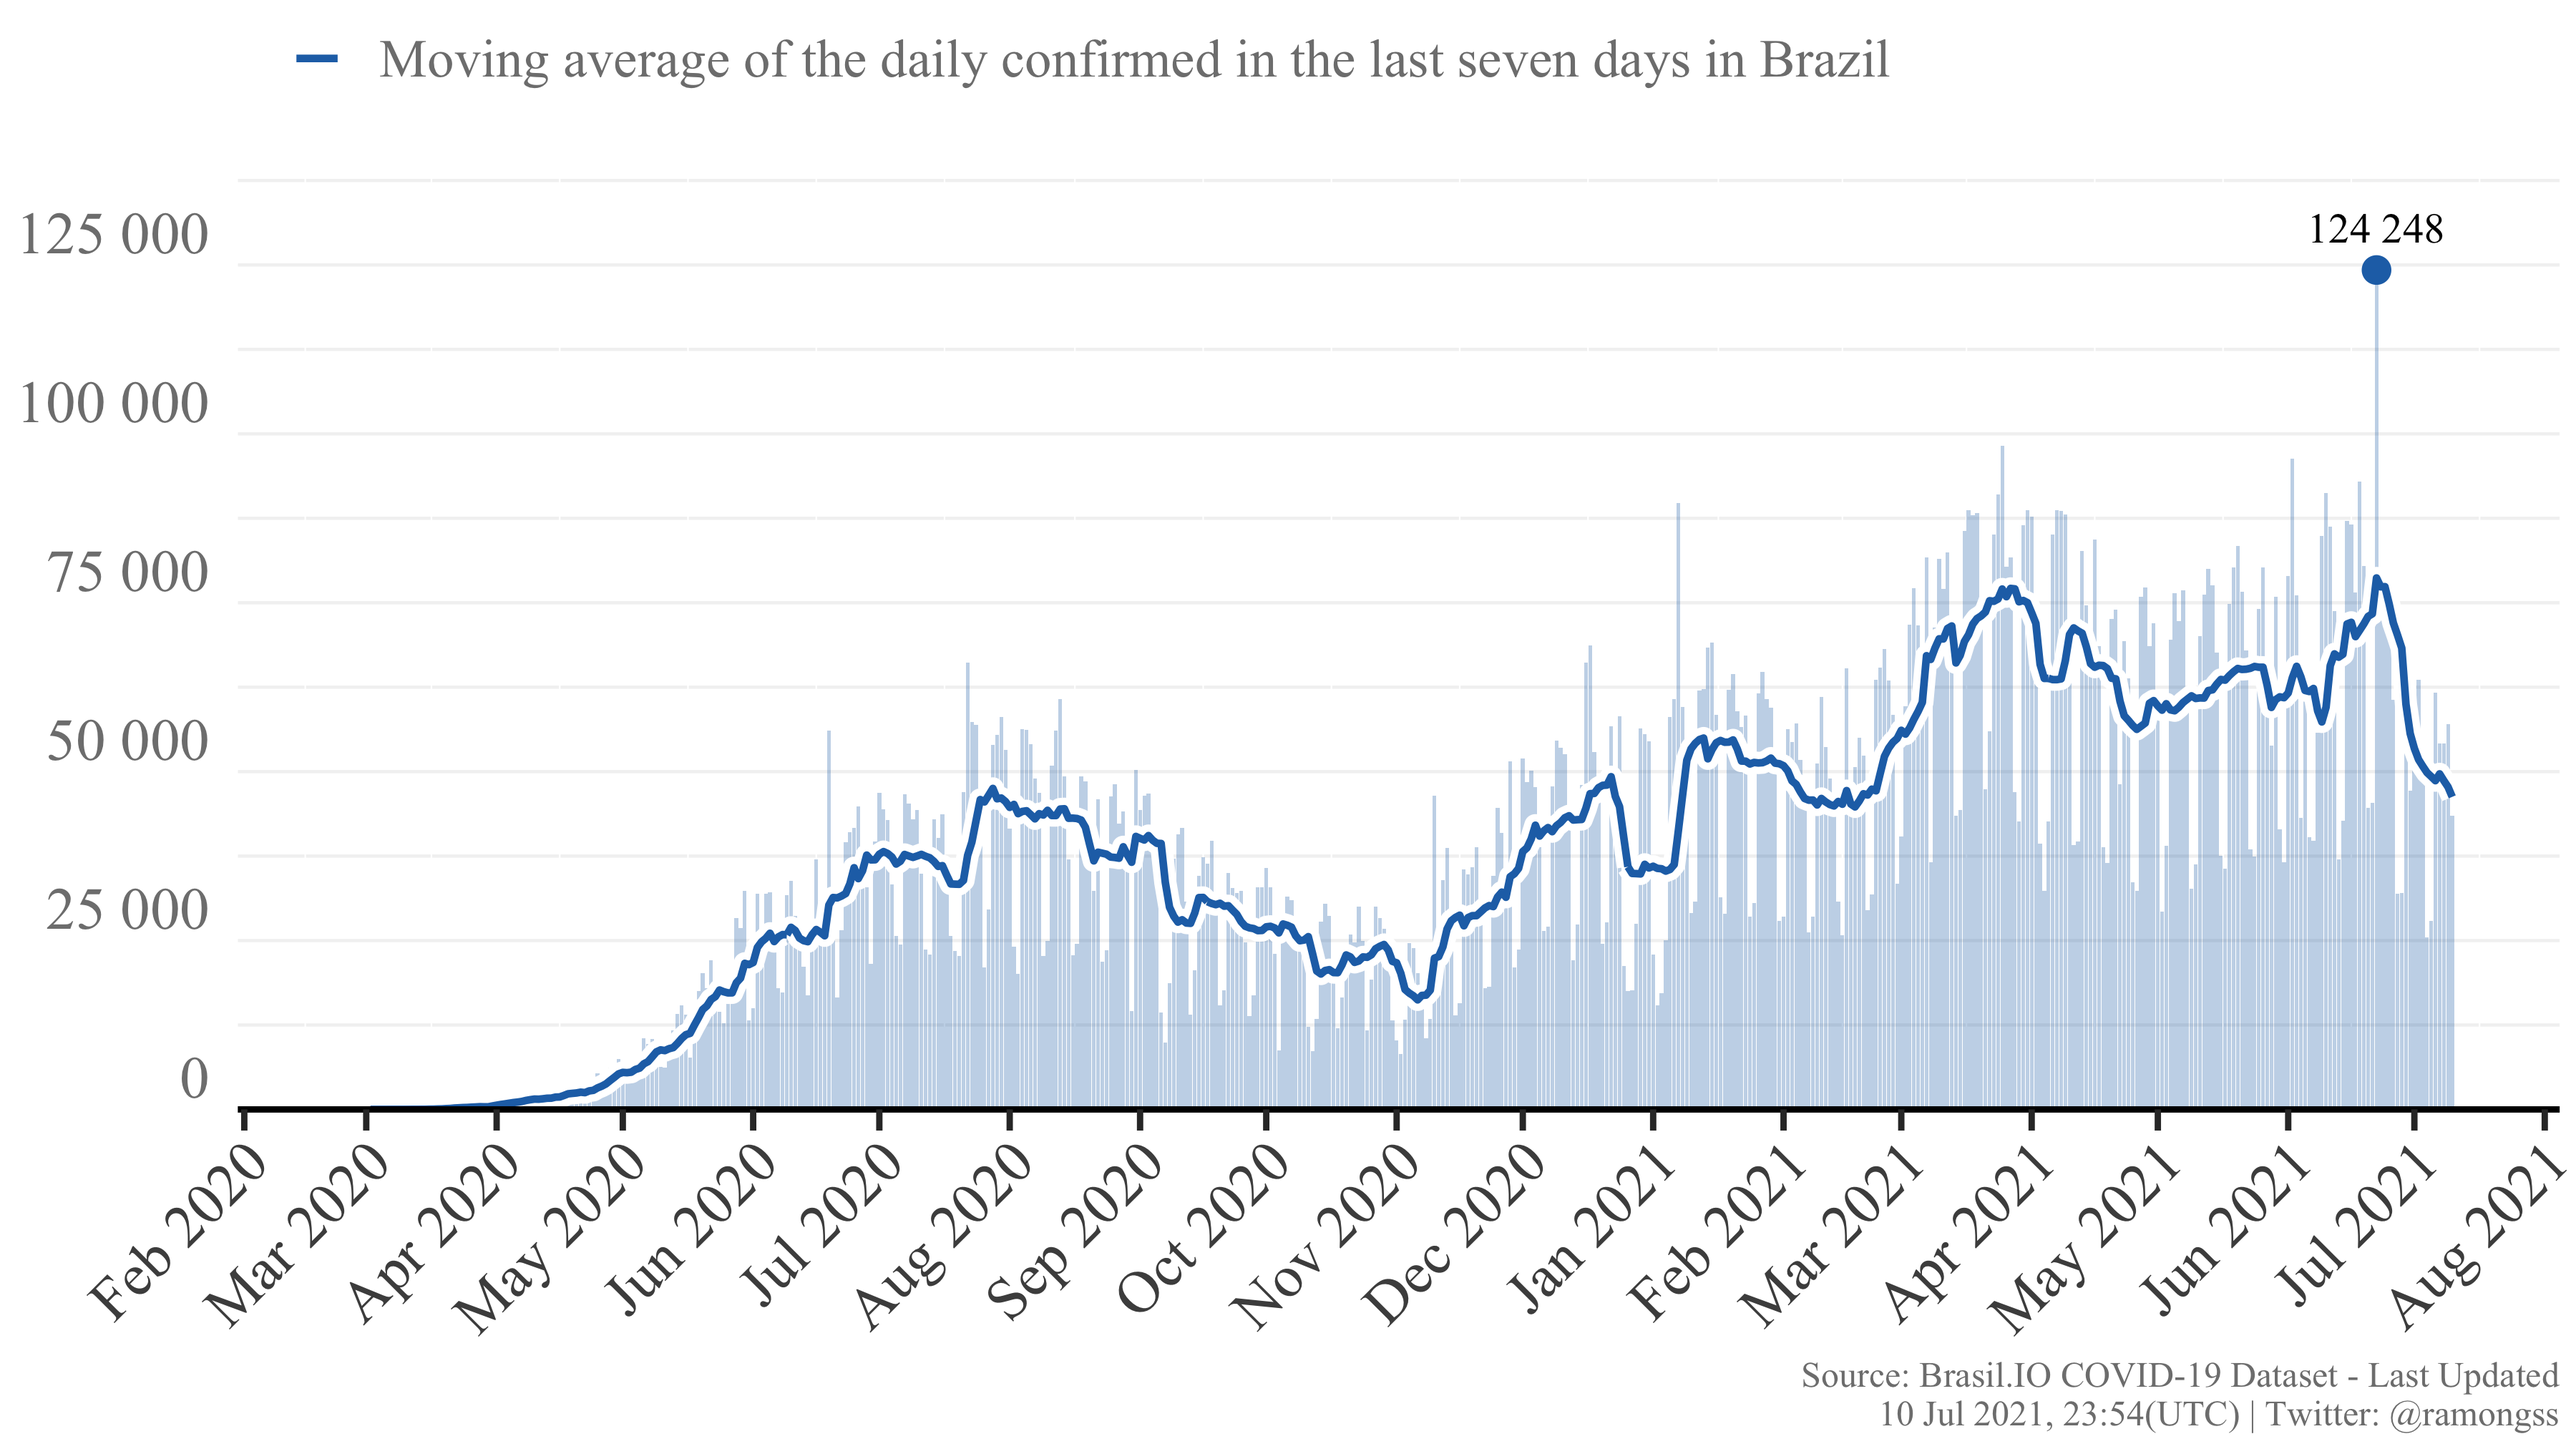
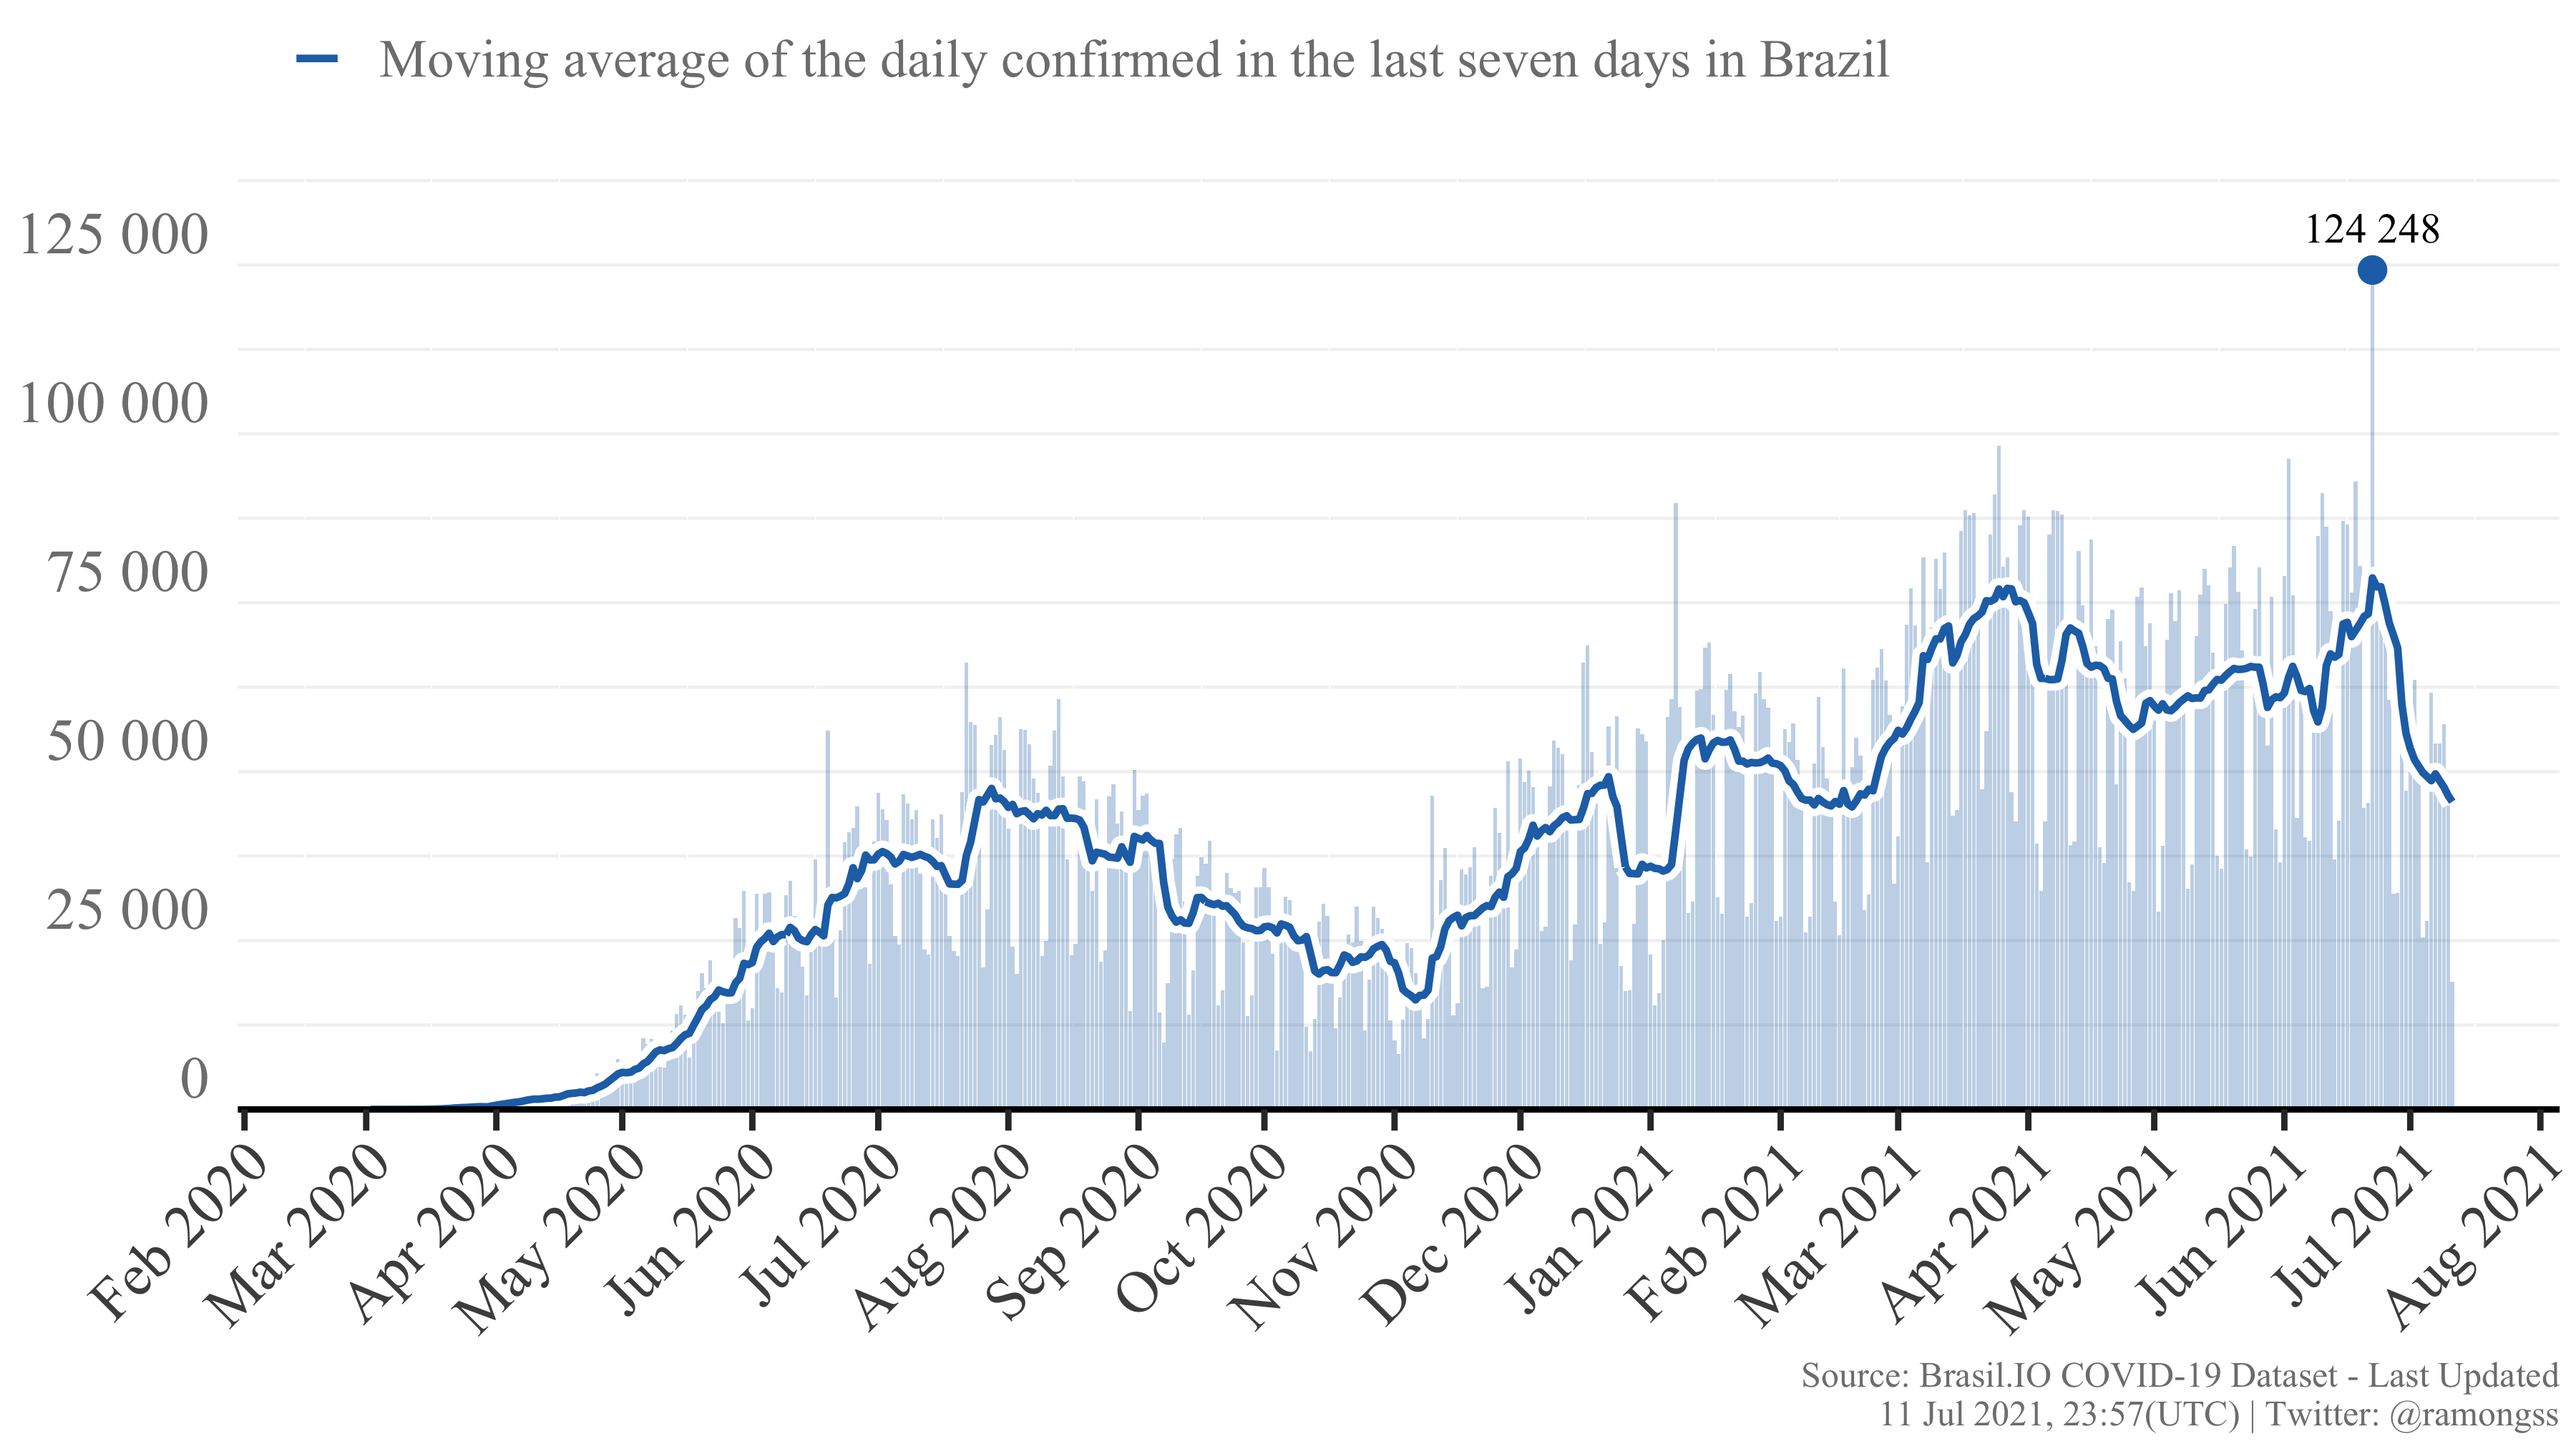
Re-build README.Rmd

diff --git a/README.md b/README.md
@@ -27,8 +27,8 @@ download_brasilio_table <- function(dataset = "covid19", table_name){
 
 ## COVID-19 Confirmed cases
 
-Currently, Brazil has a total of **19,072,603** confirmed cases at **10
-Jul, 2021**, with **43,462** new confirmed cases. The daily maximum
+Currently, Brazil has a total of **19,093,014** confirmed cases at **11
+Jul, 2021**, with **18,884** new confirmed cases. The daily maximum
 incidence was **124,248** confirmed cases at **22 Jun, 2021**. Here
 follows the Figure showing the confirmed case incidence as the bars, and
 the line as the moving average of the last 7 days.
@@ -37,8 +37,8 @@ the line as the moving average of the last 7 days.
 
 ## COVID-19 Deaths
 
-Currently, Brazil has a total of **533,122** deaths at **10 Jul, 2021**,
-with **1,126** new deaths. The daily maximum deaths incidence was
+Currently, Brazil has a total of **533,719** deaths at **11 Jul, 2021**,
+with **552** new deaths. The daily maximum deaths incidence was
 **4,148** deaths at **08 Apr, 2021**. Here follows the Figure showing
 the deaths incidence as the bars, and the line as the moving average of
 the last 7 days.
@@ -49,4 +49,4 @@ the last 7 days.
 
 This page is daily updated automatically using Github Actions.
 
-*Last update: 10 Jul 2021, 23:54 (UTC).*
+*Last update: 11 Jul 2021, 23:57 (UTC).*
